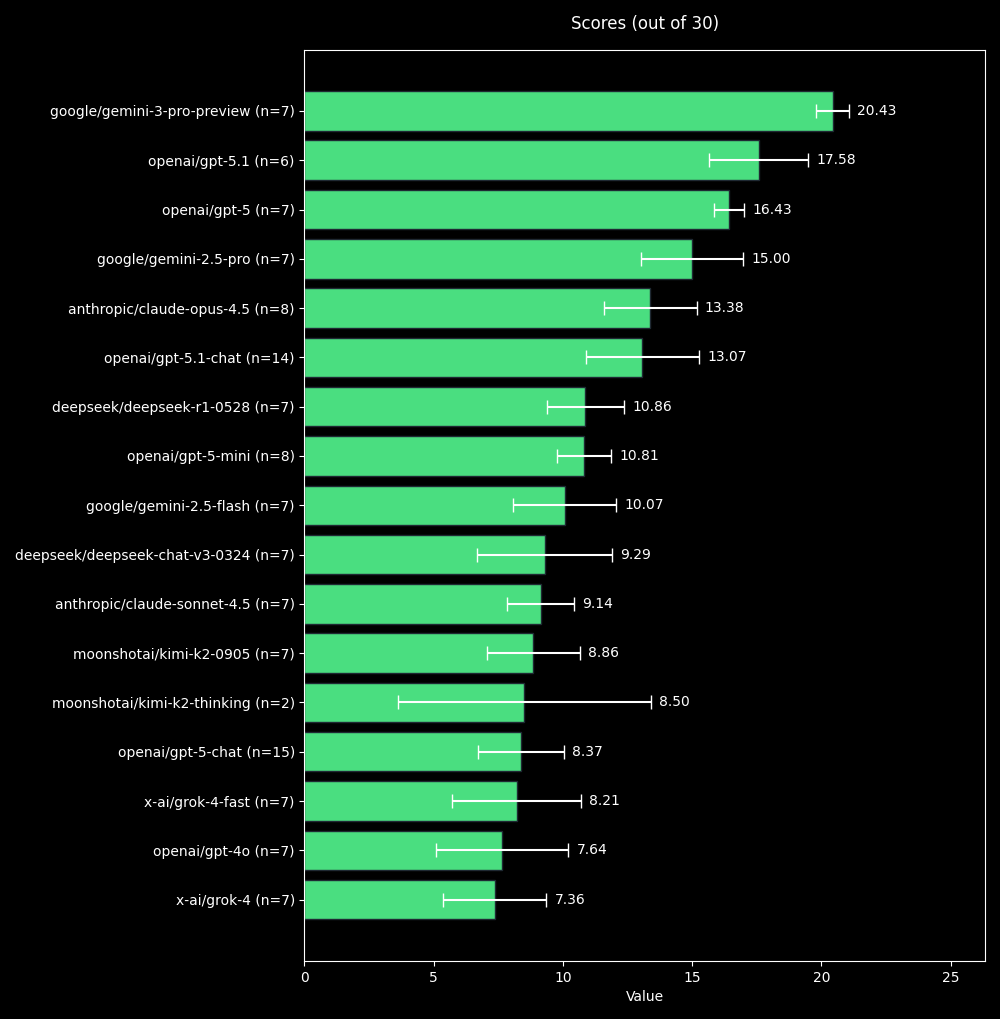
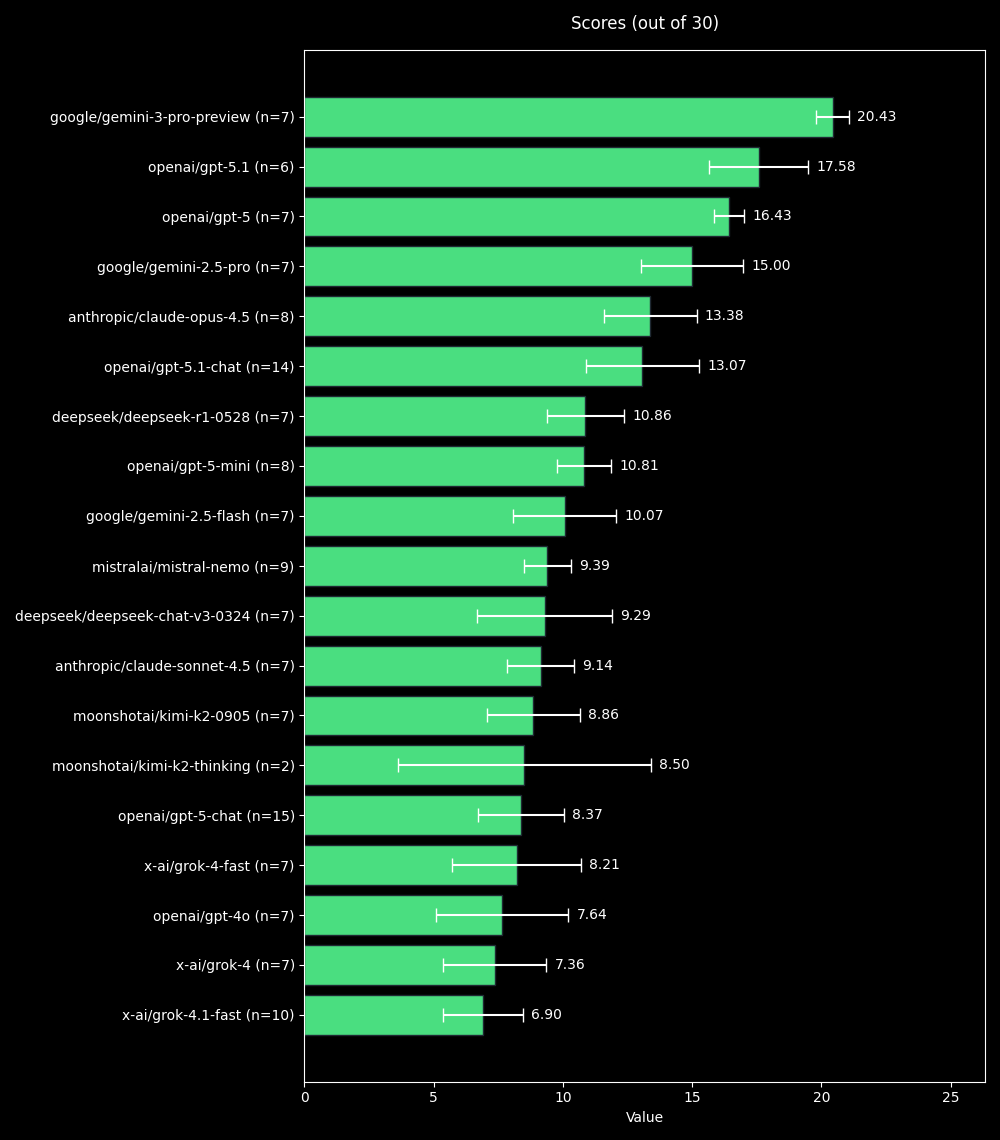
Update plots

diff --git a/consts.py b/consts.py
@@ -54,24 +54,24 @@ def _build_solution_map(solution_text: str) -> Dict[int, str]:
 
 SOLUTION = _build_solution_map(SOLUTION_STRING)
 MODELS = [
-    # "google/gemini-3-pro-preview",
-    # "google/gemini-2.5-pro",
-    # "google/gemini-2.5-flash",
-    # "anthropic/claude-sonnet-4.5",
-    # "anthropic/claude-opus-4.5"
-    # "moonshotai/kimi-k2-thinking",
-    # "moonshotai/kimi-k2-0905",
-    # "deepseek/deepseek-chat-v3-0324",
-    # "deepseek/deepseek-r1-0528",
-    # "openai/gpt-5.1",
-    # "openai/gpt-5.1-chat",
-    # "openai/gpt-5",
-    # "openai/gpt-5-chat",
-    # "openai/gpt-5-mini",
-    # "openai/gpt-4o",
-    # "mistralai/mistral-nemo",
+    "google/gemini-3-pro-preview",
+    "google/gemini-2.5-pro",
+    "google/gemini-2.5-flash",
+    "anthropic/claude-sonnet-4.5",
+    "anthropic/claude-opus-4.5"
+    "moonshotai/kimi-k2-thinking",
+    "moonshotai/kimi-k2-0905",
+    "deepseek/deepseek-chat-v3-0324",
+    "deepseek/deepseek-r1-0528",
+    "openai/gpt-5.1",
+    "openai/gpt-5.1-chat",
+    "openai/gpt-5",
+    "openai/gpt-5-chat",
+    "openai/gpt-5-mini",
+    "openai/gpt-4o",
+    "mistralai/mistral-nemo",
     "x-ai/grok-4.1-fast",
-    # "x-ai/grok-4",
-    # "x-ai/grok-4-fast",
+    "x-ai/grok-4",
+    "x-ai/grok-4-fast",
 ]
 RESULTS_FILE = Path("./results.json")

diff --git a/main.py b/main.py
@@ -206,7 +206,7 @@ def plot_results() -> None:
 
 async def main() -> None:
     models.parse_results_file()
-    # await query_openrouter()
+    await query_openrouter()
     plot_results()
 
 
